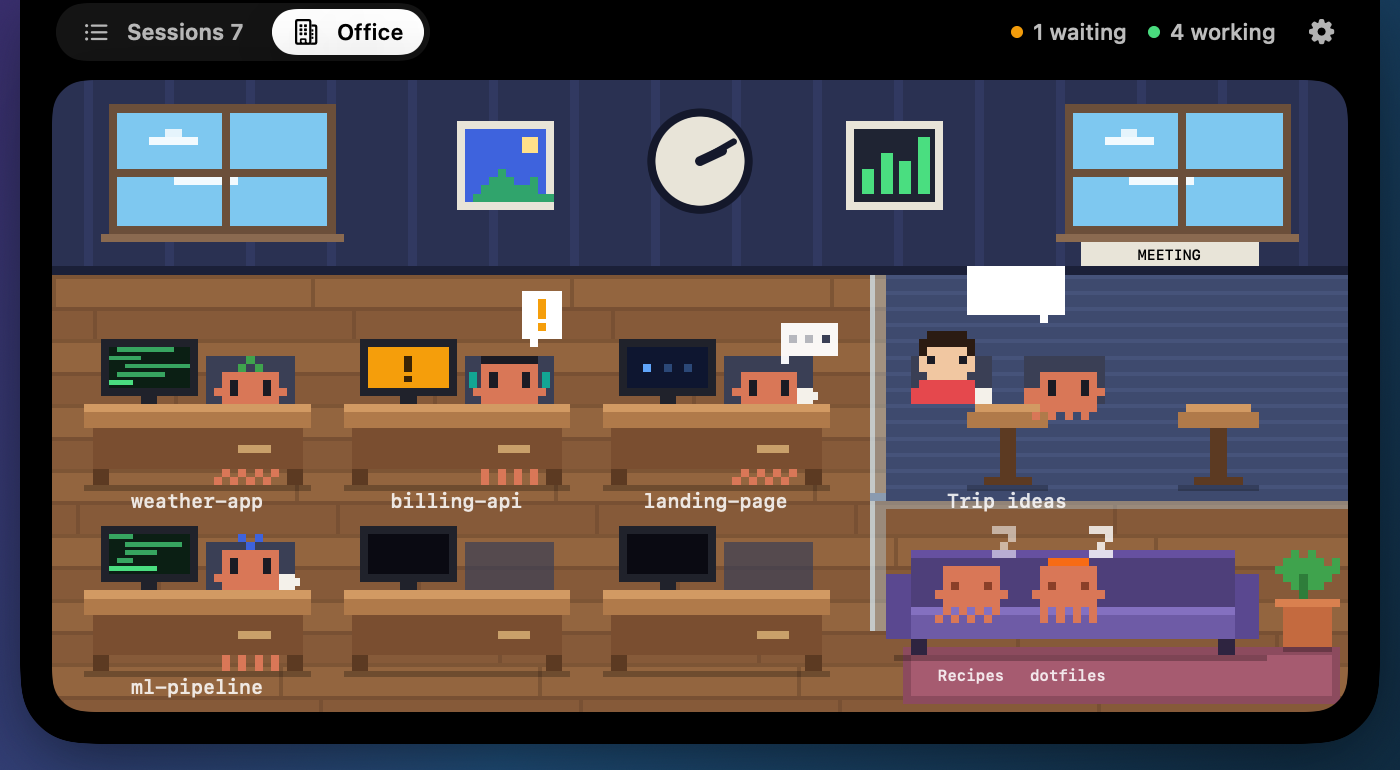
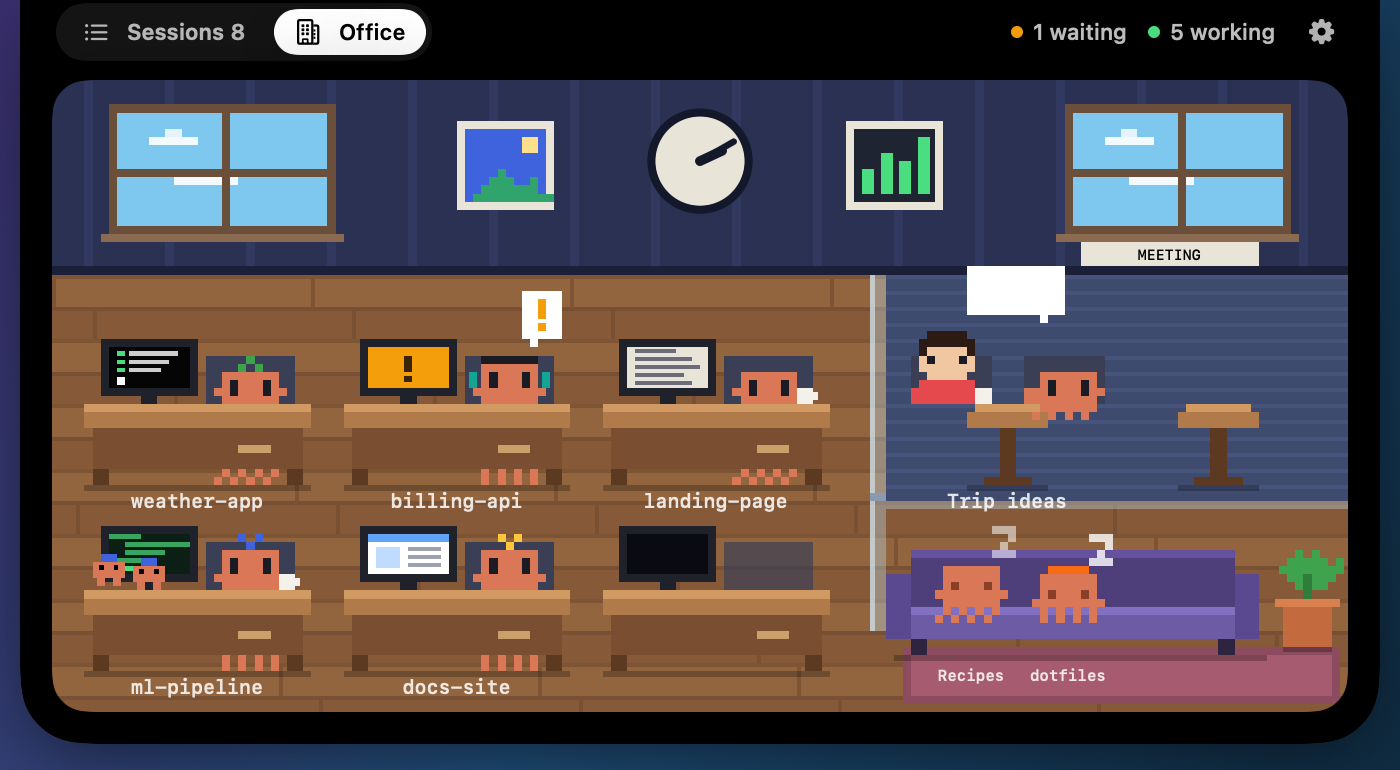
feat(office): show tool activity on monitors and subagents as interns

diff --git a/Sources/Spectrum/OfficeView.swift b/Sources/Spectrum/OfficeView.swift
@@ -488,6 +488,10 @@ struct OfficeScene {
 
         drawMonitor(canvas, x: x + 2, top: top - 8, activity: activity, seed: seed)
         drawDesk(canvas, x: x, top: top)
+        if session.subagents > 0 {
+            drawInterns(
+                canvas, x: x, top: top, count: session.subagents, accent: look.shirt, seed: seed)
+        }
         // Legs dangle in the gap under the desk, kicking while the agent works.
         drawLegs(canvas, x: characterX, y: top + 8, swing: activity.isWorking && beat)
 
@@ -532,16 +536,10 @@ struct OfficeScene {
         let step = Int(time * 6)
 
         switch activity {
-        case .usingTool, .responding:
-            canvas.fill(screenX, screenY, 10, 5, Color(hex: 0x0B1F14))
-            for row in 0..<5 {
-                let hash = (step + row * 7 + Int(seed)) &* 2_654_435_761
-                let length = Double(2 + abs(hash >> 7) % 7)
-                let indent = Double(abs(hash >> 3) % 3)
-                canvas.fill(
-                    screenX + indent, screenY + Double(row), min(length, 10 - indent), 0.6,
-                    Color(hex: 0x4ADE80, opacity: row == 4 ? 1 : 0.7))
-            }
+        case .usingTool(let tool):
+            drawToolScreen(canvas, x: screenX, y: screenY, tool: ToolKind(tool), seed: seed)
+        case .responding:
+            drawCode(canvas, x: screenX, y: screenY, seed: seed)
         case .thinking:
             canvas.fill(screenX, screenY, 10, 5, Color(hex: 0x0E1630))
             for dot in 0..<3 {
@@ -564,6 +562,57 @@ struct OfficeScene {
         }
         // Screen glow on the desk.
         canvas.fill(x, top + 8, 12, 0.6, glow(for: activity).opacity(0.35))
+    }
+
+    /// Green code scrolling past, for edits and writing an answer.
+    private func drawCode(_ canvas: PixelCanvas, x: Double, y: Double, seed: Double) {
+        let step = Int(time * 6)
+        canvas.fill(x, y, 10, 5, Color(hex: 0x0B1F14))
+        for row in 0..<5 {
+            let hash = (step + row * 7 + Int(seed)) &* 2_654_435_761
+            let length = Double(2 + abs(hash >> 7) % 7)
+            let indent = Double(abs(hash >> 3) % 3)
+            canvas.fill(
+                x + indent, y + Double(row), min(length, 10 - indent), 0.6,
+                Color(hex: 0x4ADE80, opacity: row == 4 ? 1 : 0.7))
+        }
+    }
+
+    private func drawToolScreen(
+        _ canvas: PixelCanvas, x: Double, y: Double, tool: ToolKind, seed: Double
+    ) {
+        let step = Int(time * 6)
+        switch tool {
+        case .writing, .delegating:
+            drawCode(canvas, x: x, y: y, seed: seed)
+        case .reading:
+            // A page of text slowly scrolling up.
+            canvas.fill(x, y, 10, 5, Color(hex: 0xE8E4D8))
+            for row in 0..<5 {
+                let hash = (step / 3 + row) &* 2_654_435_761
+                let length = Double(5 + abs(hash >> 5) % 4)
+                canvas.fill(x + 1, y + Double(row) + 0.2, length, 0.5, Color(hex: 0x6B6B7B))
+            }
+        case .terminal:
+            canvas.fill(x, y, 10, 5, Color(hex: 0x050505))
+            for row in 0..<3 {
+                let hash = (step / 2 + row * 5 + Int(seed)) &* 2_654_435_761
+                canvas.fill(x + 1, y + Double(row) + 0.5, 1, 0.5, Color(hex: 0x4ADE80))
+                canvas.fill(
+                    x + 2.5, y + Double(row) + 0.5, Double(2 + abs(hash >> 6) % 5), 0.5,
+                    .white.opacity(0.8))
+            }
+            if Int(time * 2).isMultiple(of: 2) {
+                canvas.fill(x + 1, y + 3.6, 1, 1, .white)
+            }
+        case .browsing:
+            canvas.fill(x, y, 10, 5, .white)
+            canvas.fill(x, y, 10, 1, Color(hex: 0x60A5FA))
+            canvas.fill(x + 1, y + 1.6, 3, 2.6, Color(hex: 0xBFDBFE))
+            for row in 0..<3 {
+                canvas.fill(x + 5, y + 1.6 + Double(row), 4, 0.5, Color(hex: 0x9CA3AF))
+            }
+        }
     }
 
     private func glow(for activity: AgentActivity) -> Color {
@@ -605,6 +654,27 @@ struct OfficeScene {
                 palette: ["z": .white.opacity(opacity * 0.8)])
         case .usingTool, .responding, .finished:
             break
+        }
+    }
+
+    /// Subagents stand on the desk as small helpers, one per running subagent.
+    private func drawInterns(
+        _ canvas: PixelCanvas, x: Double, top: Double, count: Int, accent: Color, seed: Double
+    ) {
+        let shown = min(count, 3)
+        for index in 0..<shown {
+            let hop = Int(time * 4 + seed + Double(index) * 1.3).isMultiple(of: 2) ? 0.0 : 0.5
+            let left = x + 1 + Double(index) * 5
+            let bottom = top - hop
+            canvas.fill(left, bottom - 3, 4, 2, ClaudeLook.orange)
+            canvas.fill(left + 0.8, bottom - 2.6, 0.6, 0.6, .black)
+            canvas.fill(left + 2.6, bottom - 2.6, 0.6, 0.6, .black)
+            canvas.fill(left + 0.5, bottom - 1, 1, 1, ClaudeLook.orange)
+            canvas.fill(left + 2.5, bottom - 1, 1, 1, ClaudeLook.orange)
+            canvas.fill(left + 1, bottom - 4, 2, 1, accent)
+        }
+        if count > shown {
+            label(canvas, "+\(count - shown)", x: x + 17, y: top - 2, size: 2)
         }
     }
 

diff --git a/Tests/SpectrumCoreTests/OfficeActivityTests.swift b/Tests/SpectrumCoreTests/OfficeActivityTests.swift
@@ -1,0 +1,39 @@
+import Foundation
+import Testing
+
+@testable import SpectrumCore
+
+private func event(_ kind: String, tool: String? = nil) throws -> AgentEvent {
+    var json = ["session_id": "s", "hook_event_name": kind]
+    json["tool_name"] = tool
+    return try AgentEvent.decode(JSONSerialization.data(withJSONObject: json))
+}
+
+@Test func toolsMapToWhatTheAgentDoesAtItsDesk() {
+    #expect(ToolKind("Read") == .reading)
+    #expect(ToolKind("Grep") == .reading)
+    #expect(ToolKind("Edit") == .writing)
+    #expect(ToolKind("Write") == .writing)
+    #expect(ToolKind("Bash") == .terminal)
+    #expect(ToolKind("WebSearch") == .browsing)
+    #expect(ToolKind("WebFetch") == .browsing)
+    #expect(ToolKind("Task") == .delegating)
+    #expect(ToolKind("Agent") == .delegating)
+    #expect(ToolKind("mcp__github__create_issue") == .writing)
+}
+
+@Test func subagentsComeAndGoWithTheirTaskCalls() throws {
+    var store = SessionStore()
+    try store.apply(event("PreToolUse", tool: "Task"), at: .distantPast)
+    try store.apply(event("PreToolUse", tool: "Agent"), at: .distantPast)
+    #expect(store.sessions["s"]?.subagents == 2)
+
+    try store.apply(event("PostToolUse", tool: "Task"), at: .distantPast)
+    #expect(store.sessions["s"]?.subagents == 1)
+
+    // A new turn starts fresh even if a finish went missing.
+    try store.apply(event("Stop"), at: .distantPast)
+    #expect(store.sessions["s"]?.subagents == 0)
+    try store.apply(event("PostToolUse", tool: "Task"), at: .distantPast)
+    #expect(store.sessions["s"]?.subagents == 0)
+}

diff --git a/Sources/SpectrumCore/AgentSession.swift b/Sources/SpectrumCore/AgentSession.swift
@@ -20,6 +20,8 @@ public struct AgentSession: Identifiable, Equatable, Sendable {
     public var permission: PermissionPrompt?
     /// The agent's own plan, when it keeps one.
     public var tasks = TaskList()
+    /// Subagents this agent is waiting on right now.
+    public var subagents = 0
     public let startedAt: Date
     public var updatedAt: Date
 
@@ -75,10 +77,22 @@ public struct SessionStore: Equatable, Sendable {
         // Any later event means the request was settled, by the island or in the terminal.
         session.permission = event.permissionPrompt
         if let change = event.taskChange { session.tasks.apply(change) }
+        session.subagents = Self.subagents(session.subagents, after: event)
         session.cwd = event.cwd ?? session.cwd
         session.transcriptPath = event.transcriptPath ?? session.transcriptPath
         session.updatedAt = date
         sessions[event.sessionID] = session
+    }
+
+    private static func subagents(_ count: Int, after event: AgentEvent) -> Int {
+        let delegating = event.toolName.map { ToolKind($0) == .delegating } ?? false
+        switch event.kind {
+        case .preToolUse where delegating: return count + 1
+        case .postToolUse where delegating: return max(count - 1, 0)
+        // A turn's boundaries reset the count, so a lost finish can't leave a ghost intern.
+        case .stop, .userPromptSubmit, .sessionStart: return 0
+        default: return count
+        }
     }
 
     /// The island answered the request; the agent carries on without waiting for its next event.

diff --git a/Sources/Spectrum/PreviewRenderer.swift b/Sources/Spectrum/PreviewRenderer.swift
@@ -164,11 +164,18 @@ enum PreviewRenderer {
         agent("d", "dotfiles", .idle, minutesAgo: 12),
     ]
 
+    private static var delegatingAgent: AgentSession {
+        var session = agent("f", "ml-pipeline", .usingTool("Agent"))
+        session.subagents = 2
+        return session
+    }
+
     private static let officeSessions = [
         agent("a", "weather-app", .usingTool("Bash")),
         agent("b", "billing-api", .waitingForUser),
-        agent("e", "landing-page", .thinking),
-        agent("f", "ml-pipeline", .usingTool("Edit")),
+        agent("e", "landing-page", .usingTool("Read")),
+        delegatingAgent,
+        agent("h", "docs-site", .usingTool("WebSearch")),
         agent("c", "Trip ideas", .responding, kind: .chat),
         agent("d", "dotfiles", .idle),
         agent("g", "Recipes", .idle, kind: .chat),

diff --git a/Sources/SpectrumCore/ToolKind.swift b/Sources/SpectrumCore/ToolKind.swift
@@ -1,0 +1,20 @@
+/// What a tool call looks like at the agent's desk in the office.
+public enum ToolKind: Equatable, Sendable {
+    case reading
+    case writing
+    case terminal
+    case browsing
+    /// Handing work to a subagent.
+    case delegating
+
+    public init(_ toolName: String) {
+        switch toolName {
+        case "Read", "Grep", "Glob", "LS", "NotebookRead", "TaskList", "TaskGet": self = .reading
+        case "Bash", "BashOutput", "KillShell", "KillBash", "Monitor": self = .terminal
+        case "WebSearch", "WebFetch": self = .browsing
+        case "Task", "Agent": self = .delegating
+        // Edits and everything else, MCP tools included, read as typing code.
+        default: self = .writing
+        }
+    }
+}

diff --git a/ROADMAP.md b/ROADMAP.md
@@ -8,8 +8,8 @@
 
 - [x] Allow or deny permission requests from the island (`PermissionRequest` hook)
 - [x] Task progress from `TodoWrite` and the Task tools around the avatar in the sessions list
-- [ ] Office tool animations: reading, typing, terminal, globe for web search
-- [ ] Subagents as interns next to their agent in the office
+- [x] Office tool animations: a page for reading, code for edits, a terminal, a browser for the web
+- [x] Subagents as interns on their agent's desk in the office
 - [ ] Boss's office: hours worked per agent, what each did, tokens and money spent, 5-hour limit
 - [ ] Start a new Claude Code session in a project from the panel
 - [ ] Session summary when a task finishes: files changed, lines added and removed

diff --git a/README.md b/README.md
@@ -45,7 +45,8 @@ desks, talk in the meeting room and doze on the sofa.
   Hover a row and press ✕ to hide it until it does something new.
 - **Conversation**: click a Claude Code session to read its recent messages and tool calls, and
   reply to it when it is idle.
-- **Office**: desks for working agents with screens showing their activity, a meeting room where
+- **Office**: desks for working agents with screens showing their activity (a page while reading,
+  a terminal, a browser, code) and subagents as small interns on the desk, a meeting room where
   you and Claude talk through a chat, a lounge for idle agents. Hover to highlight, click to open.
   The room follows your Mac's clock, from a blue sky to a lamp-lit night.
 

diff --git a/CHANGELOG.md b/CHANGELOG.md
@@ -13,6 +13,9 @@ All notable changes to this project are documented here. The format follows
   version are updated on launch.
 - Task progress in the sessions list: a ring around the avatar and "2/4 Writing the view", from
   the agent's `TodoWrite` list or the newer `TaskCreate` / `TaskUpdate` tools.
+- Office monitors show what the tool does: a page of text while reading, a terminal for
+  commands, a browser for web search, code for edits.
+- Subagents appear as small interns on their agent's desk.
 
 ### Changed
 
